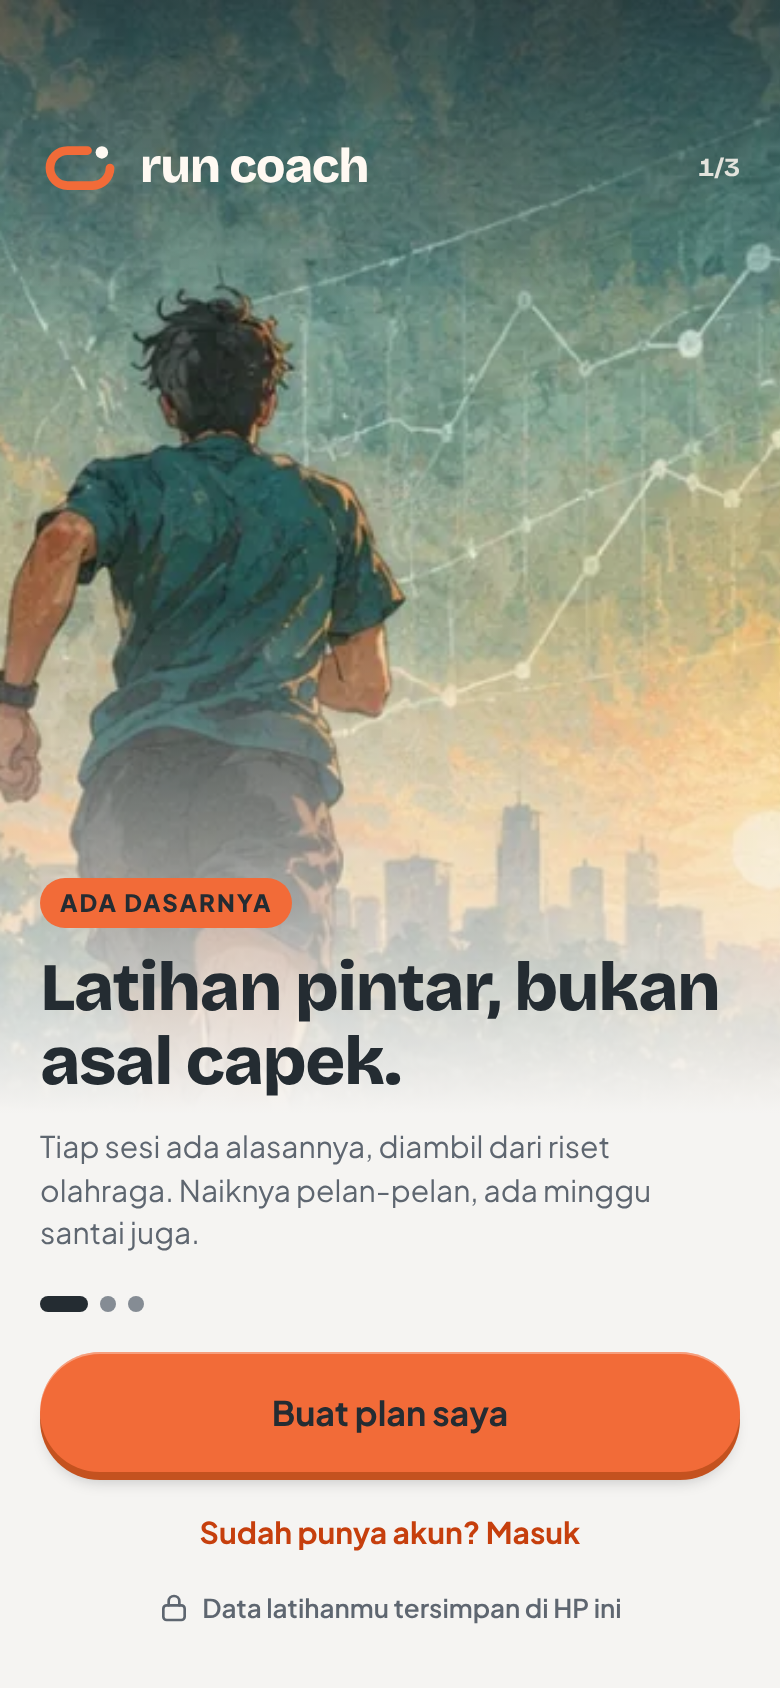
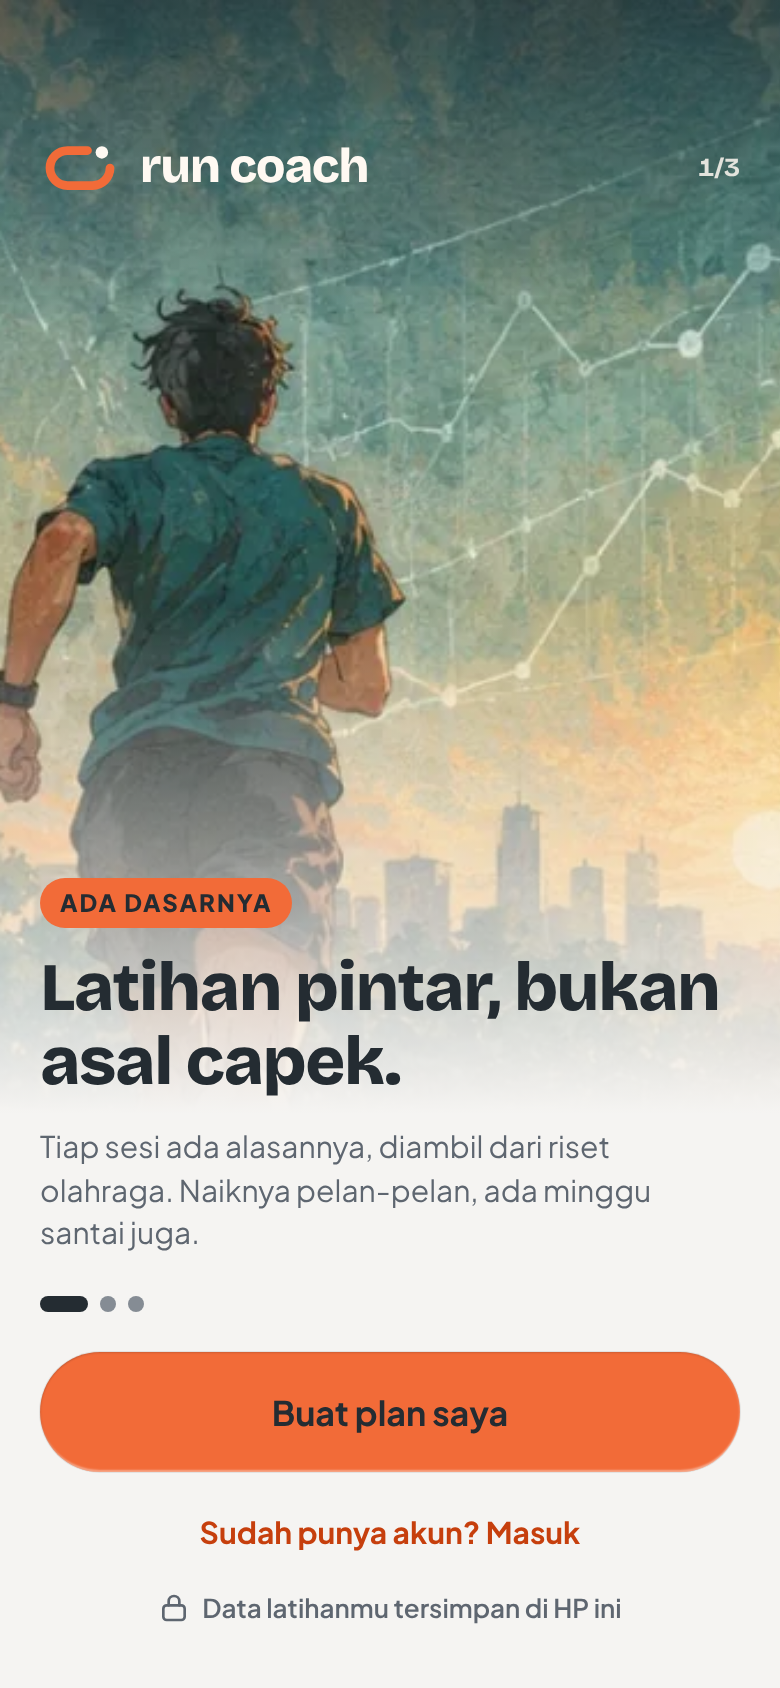
feat(ui): tombol kaca (isi rata, tepi kaca, datar saat ditekan)
PrimaryButton: tanpa bayangan keluar dan tanpa gradasi; tepi atas/kiri
sedikit gelap, bawah/kanan sedikit terang (meniru referensi liquid glass).
SecondaryButton outline: latar surface-sunken (gelap: surface) dengan tepi
kaca terang. Ditekan: efek hilang, tidak bergeser. Token primary-edge
dihapus. Spec UI/UX 2 dan wireframe carousel diperbarui.

Claude-Session: https://claude.ai/code/session_0117N1BV5utnPpkrBuecfNkz

Changed region(s): [[0.0615, 0.8626, 0.9231, 0.8934], [0.9231, 0.8318, 0.9538, 0.8626]]

diff --git a/packages/ui/src/components/Button.tsx b/packages/ui/src/components/Button.tsx
@@ -1,5 +1,5 @@
 import { ActivityIndicator, Pressable, StyleSheet, View, type PressableProps } from 'react-native';
-import { border, color, radius, ring, size, space, themed, isDark } from '../theme';
+import { border, color, radius, size, space, themed, isDark } from '../theme';
 import { Icon, type IconName } from './Icon';
 import { Text } from './Text';
 
@@ -10,25 +10,42 @@ type Base = Omit<PressableProps, 'children' | 'style'> & {
   testID?: string;
 };
 
-/** Tebal sisi bawah tombol (UI/UX 3, v0.9) dan sisa saat ditekan. */
-const EDGE = space[1];
-const EDGE_PRESSED = border.hairline;
-
-/** Sisi gelap tombol varian `dark`: hitam pekat di terang, krem redup di gelap. */
-const edgeDark = () => (isDark() ? color.lineStrong : color.scrim);
-
 /**
- * Tombol bertebal (bukan kertas melayang): sisi bawah padat warna lebih gelap + bayangan lembut
- * pendek + kilau tipis di tepi atas. Ditekan: tombol turun dan sisinya menipis, seperti tombol fisik.
+ * Tepi kaca (UI/UX 3, v0.9, meniru referensi ala liquid glass): isi rata tanpa gradasi dan tanpa
+ * bayangan keluar. Cahaya seolah tembus dari bawah: tepi atas/kiri sedikit gelap, tepi bawah/kanan
+ * sedikit terang, dengan tepi lembut. Ditekan: semua efek hilang, tombol datar sejajar layar.
  */
-function depth(edge: string, pressed: boolean) {
-  const e = pressed ? EDGE_PRESSED : EDGE;
+const H = border.hairline;
+const HL = border.control;
+const inset = (x: number, y: number, c: string) => `inset ${x}px ${y}px ${H}px -${H / 2}px ${c}`;
+
+function glassPrimary(pressed: boolean) {
+  if (pressed) return { boxShadow: 'none' };
+  const dark = color.scrim;
+  const light = color.palette.white;
   return {
-    transform: [{ translateY: EDGE - e }],
     boxShadow: [
-      `0px ${e}px 0px 0px ${edge}`,
-      `0px ${e + space[1]}px ${space[2]}px -${space[1]}px ${color.scrim}40`,
-      `inset 0px ${border.hairline}px 0px 0px ${color.palette.white}59`,
+      inset(0, H, `${dark}26`),
+      inset(H, 0, `${dark}1A`),
+      inset(0, -HL, `${light}66`),
+      inset(-H, 0, `${light}33`),
+      `0px 0px 0px ${H / 2}px ${dark}14`,
+    ].join(', '),
+  };
+}
+
+function glassSecondary(pressed: boolean) {
+  if (pressed) return { boxShadow: 'none' };
+  const dark = isDark();
+  const rim = dark ? color.palette.cream : color.palette.white;
+  const a = dark ? ['40', '26', '33', '1A'] : ['F2', 'B3', 'CC', '80'];
+  return {
+    boxShadow: [
+      inset(0, -HL, `${rim}${a[0]}`),
+      inset(-HL, 0, `${rim}${a[1]}`),
+      inset(0, H, `${rim}${a[2]}`),
+      inset(H, 0, `${rim}${a[3]}`),
+      `0px 0px 0px ${H / 2}px ${dark ? `${color.scrim}66` : `${color.text}1F`}`,
     ].join(', '),
   };
 }
@@ -54,7 +71,7 @@ export function PrimaryButton({
       style={({ pressed }) => [
         styles.primary,
         { backgroundColor: bg, opacity: off ? 0.4 : 1 },
-        depth(variant === 'primary' ? color.primaryEdge : edgeDark(), pressed && !off),
+        glassPrimary(pressed && !off),
       ]}
     >
       {loading ? (
@@ -89,8 +106,8 @@ export function SecondaryButton({
       style={({ pressed }) => [
         styles.secondary,
         tall && styles.tall,
-        variant === 'outline' ? styles.outline : null,
-        { opacity: disabled ? 0.4 : pressed ? 0.7 : 1 },
+        variant === 'outline' ? [styles.outline, glassSecondary(pressed && !disabled)] : null,
+        { opacity: disabled ? 0.4 : variant === 'outline' ? 1 : pressed ? 0.7 : 1 },
       ]}
     >
       <View style={styles.row}>
@@ -150,7 +167,8 @@ const styles = themed(() =>
       paddingHorizontal: space[5],
     },
     tall: { minHeight: size.input },
-    outline: { ...ring(border.control, color.lineStrong), backgroundColor: color.surface },
+    // Sekunder kaca: abu rata (gelap: surface) + tepi kaca dari glassSecondary.
+    outline: { backgroundColor: isDark() ? color.surface : color.surfaceSunken },
     link: {
       minHeight: size.touchMin,
       alignItems: 'center',

diff --git a/docs/wireframes/source/IMG-1-9-masuk.dc.html b/docs/wireframes/source/IMG-1-9-masuk.dc.html
@@ -17,7 +17,7 @@ a{color:var(--primary-ink)}
 button{font-family:inherit}
 
 /* USULAN TOKEN (draft imagery), belum di tokens.json */
-:root{--on-image:#FFF9F2;--scrim-top:linear-gradient(180deg,#161B1F99 0%,#161B1F00 100%);--scrim-bottom:linear-gradient(180deg,#161B1F00 0%,#161B1FB3 100%);--primary-edge:#C4521F;--button-depth:0 4px 0 0 var(--primary-edge),0 8px 8px -4px #161B1F40,inset 0 1px 0 0 #FFFFFF59}
+:root{--on-image:#FFF9F2;--scrim-top:linear-gradient(180deg,#161B1F99 0%,#161B1F00 100%);--scrim-bottom:linear-gradient(180deg,#161B1F00 0%,#161B1FB3 100%);--primary-edge:#C4521F;--button-depth:inset 0 1px 1px -0.5px #161B1F26,inset 1px 0 1px -0.5px #161B1F1A,inset 0 -1.5px 1px -0.5px #FFFFFF66,inset -1px 0 1px -0.5px #FFFFFF33,0 0 0 0.5px #161B1F14}
 </style>
 </helmet>
 <div style="position: relative; width: 390px; height: 844px; box-sizing: border-box; display: flex; flex-direction: column; background: var(--bg); color: var(--text); font-family: var(--font-ui); font-feature-settings: 'tnum' 1; overflow: hidden"><div aria-hidden="true" style="position: absolute; top: 0; left: 0; right: 0; height: 330px; z-index: 0"><img src="ds/lintas/imagery/riverside-city-f.webp" alt="" style="width: 100%; height: 100%; object-fit: cover; object-position: 74% 52%; display: block"><div style="position: absolute; inset: 0 0 auto 0; height: 120px; background: var(--scrim-top)"></div><div style="position: absolute; inset: 0; background: linear-gradient(180deg, transparent 45%, var(--bg) 100%)"></div></div>

diff --git a/docs/wireframes/source/IMG-4-4-premium.dc.html b/docs/wireframes/source/IMG-4-4-premium.dc.html
@@ -16,7 +16,7 @@ a{color:var(--primary-ink)}
 button{font-family:inherit}
 
 /* USULAN TOKEN (draft imagery), belum di tokens.json */
-:root{--on-image:#FFF9F2;--scrim-top:linear-gradient(180deg,#161B1F99 0%,#161B1F00 100%);--scrim-bottom:linear-gradient(180deg,#161B1F00 0%,#161B1FB3 100%);--primary-edge:#C4521F;--button-depth:0 4px 0 0 var(--primary-edge),0 8px 8px -4px #161B1F40,inset 0 1px 0 0 #FFFFFF59}
+:root{--on-image:#FFF9F2;--scrim-top:linear-gradient(180deg,#161B1F99 0%,#161B1F00 100%);--scrim-bottom:linear-gradient(180deg,#161B1F00 0%,#161B1FB3 100%);--primary-edge:#C4521F;--button-depth:inset 0 1px 1px -0.5px #161B1F26,inset 1px 0 1px -0.5px #161B1F1A,inset 0 -1.5px 1px -0.5px #FFFFFF66,inset -1px 0 1px -0.5px #FFFFFF33,0 0 0 0.5px #161B1F14}
 </style>
 </helmet>
 <div style="position: relative; width: 390px; height: 844px; box-sizing: border-box; display: flex; flex-direction: column; background: var(--bg); color: var(--text); font-family: var(--font-ui); font-feature-settings: 'tnum' 1; overflow: hidden"><div aria-hidden="true" style="position: absolute; top: 0; left: 0; right: 0; height: 300px; z-index: 0"><img src="ds/lintas/imagery/riverside-city-m.webp" alt="" style="width: 100%; height: 100%; object-fit: cover; object-position: 80% 46%; display: block"><div style="position: absolute; inset: 0 0 auto 0; height: 120px; background: var(--scrim-top)"></div><div style="position: absolute; inset: 0; background: linear-gradient(180deg, transparent 45%, var(--bg) 100%)"></div></div>

diff --git a/docs/wireframes/source/IMG-1-1-selamat-datang.dc.html b/docs/wireframes/source/IMG-1-1-selamat-datang.dc.html
@@ -17,7 +17,7 @@ a{color:var(--primary-ink)}
 button{font-family:inherit}
 
 /* USULAN TOKEN (draft imagery), belum di tokens.json */
-:root{--on-image:#FFF9F2;--scrim-top:linear-gradient(180deg,#161B1F99 0%,#161B1F00 100%);--scrim-bottom:linear-gradient(180deg,#161B1F00 0%,#161B1FB3 100%);--primary-edge:#C4521F;--button-depth:0 4px 0 0 var(--primary-edge),0 8px 8px -4px #161B1F40,inset 0 1px 0 0 #FFFFFF59}
+:root{--on-image:#FFF9F2;--scrim-top:linear-gradient(180deg,#161B1F99 0%,#161B1F00 100%);--scrim-bottom:linear-gradient(180deg,#161B1F00 0%,#161B1FB3 100%);--primary-edge:#C4521F;--button-depth:inset 0 1px 1px -0.5px #161B1F26,inset 1px 0 1px -0.5px #161B1F1A,inset 0 -1.5px 1px -0.5px #FFFFFF66,inset -1px 0 1px -0.5px #FFFFFF33,0 0 0 0.5px #161B1F14}
 </style>
 </helmet>
 <div style="position: relative; width: 390px; height: 844px; box-sizing: border-box; display: flex; flex-direction: column; background: var(--bg); color: var(--text); font-family: var(--font-ui); font-feature-settings: 'tnum' 1; overflow: hidden"><div aria-hidden="true" style="position: absolute; top: 0; left: 0; right: 0; height: 520px; z-index: 0"><img src="ds/lintas/imagery/road-sunrise-m.webp" alt="" style="width: 100%; height: 100%; object-fit: cover; object-position: 62% 38%; display: block"><div style="position: absolute; inset: 0 0 auto 0; height: 120px; background: var(--scrim-top)"></div><div style="position: absolute; inset: 0; background: linear-gradient(180deg, transparent 45%, var(--bg) 100%)"></div></div>

diff --git a/docs/wireframes/source/IMG-1-1b-selamat-datang.dc.html b/docs/wireframes/source/IMG-1-1b-selamat-datang.dc.html
@@ -17,7 +17,7 @@ a{color:var(--primary-ink)}
 button{font-family:inherit}
 
 /* USULAN TOKEN (draft imagery), belum di tokens.json */
-:root{--on-image:#FFF9F2;--scrim-top:linear-gradient(180deg,#161B1F99 0%,#161B1F00 100%);--scrim-bottom:linear-gradient(180deg,#161B1F00 0%,#161B1FB3 100%);--primary-edge:#C4521F;--button-depth:0 4px 0 0 var(--primary-edge),0 8px 8px -4px #161B1F40,inset 0 1px 0 0 #FFFFFF59}
+:root{--on-image:#FFF9F2;--scrim-top:linear-gradient(180deg,#161B1F99 0%,#161B1F00 100%);--scrim-bottom:linear-gradient(180deg,#161B1F00 0%,#161B1FB3 100%);--primary-edge:#C4521F;--button-depth:inset 0 1px 1px -0.5px #161B1F26,inset 1px 0 1px -0.5px #161B1F1A,inset 0 -1.5px 1px -0.5px #FFFFFF66,inset -1px 0 1px -0.5px #FFFFFF33,0 0 0 0.5px #161B1F14}
 </style>
 </helmet>
 <div style="position: relative; width: 390px; height: 844px; box-sizing: border-box; display: flex; flex-direction: column; background: var(--bg); color: var(--text); font-family: var(--font-ui); font-feature-settings: 'tnum' 1; overflow: hidden"><div aria-hidden="true" style="position: absolute; top: 0; left: 0; right: 0; height: 520px; z-index: 0"><img src="ds/lintas/imagery/road-sunrise-f.webp" alt="" style="width: 100%; height: 100%; object-fit: cover; object-position: 74% 45%; display: block"><div style="position: absolute; inset: 0 0 auto 0; height: 120px; background: var(--scrim-top)"></div><div style="position: absolute; inset: 0; background: linear-gradient(180deg, transparent 45%, var(--bg) 100%)"></div></div>

diff --git a/docs/wireframes/source/IMG-2-5-ringkasan-minggu.dc.html b/docs/wireframes/source/IMG-2-5-ringkasan-minggu.dc.html
@@ -17,7 +17,7 @@ a{color:var(--primary-ink)}
 button{font-family:inherit}
 
 /* USULAN TOKEN (draft imagery), belum di tokens.json */
-:root{--on-image:#FFF9F2;--scrim-top:linear-gradient(180deg,#161B1F99 0%,#161B1F00 100%);--scrim-bottom:linear-gradient(180deg,#161B1F00 0%,#161B1FB3 100%);--primary-edge:#C4521F;--button-depth:0 4px 0 0 var(--primary-edge),0 8px 8px -4px #161B1F40,inset 0 1px 0 0 #FFFFFF59}
+:root{--on-image:#FFF9F2;--scrim-top:linear-gradient(180deg,#161B1F99 0%,#161B1F00 100%);--scrim-bottom:linear-gradient(180deg,#161B1F00 0%,#161B1FB3 100%);--primary-edge:#C4521F;--button-depth:inset 0 1px 1px -0.5px #161B1F26,inset 1px 0 1px -0.5px #161B1F1A,inset 0 -1.5px 1px -0.5px #FFFFFF66,inset -1px 0 1px -0.5px #FFFFFF33,0 0 0 0.5px #161B1F14}
 </style>
 </helmet>
 <div style="position: relative; width: 390px; height: 844px; box-sizing: border-box; display: flex; flex-direction: column; background: var(--bg); color: var(--text); font-family: var(--font-ui); font-feature-settings: 'tnum' 1; overflow: hidden"><div aria-hidden="true" style="position: absolute; top: 0; left: 0; right: 0; height: 300px; z-index: 0"><img src="ds/lintas/imagery/track-overhead.webp" alt="" style="width: 100%; height: 100%; object-fit: cover; object-position: 50% 40%; display: block"><div style="position: absolute; inset: 0 0 auto 0; height: 120px; background: var(--scrim-top)"></div><div style="position: absolute; inset: 0; background: linear-gradient(180deg, transparent 45%, var(--bg) 100%)"></div></div>

diff --git a/docs/wireframes/source/IMG-2-4-selesai.dc.html b/docs/wireframes/source/IMG-2-4-selesai.dc.html
@@ -17,7 +17,7 @@ a{color:var(--primary-ink)}
 button{font-family:inherit}
 
 /* USULAN TOKEN (draft imagery), belum di tokens.json */
-:root{--on-image:#FFF9F2;--scrim-top:linear-gradient(180deg,#161B1F99 0%,#161B1F00 100%);--scrim-bottom:linear-gradient(180deg,#161B1F00 0%,#161B1FB3 100%);--primary-edge:#C4521F;--button-depth:0 4px 0 0 var(--primary-edge),0 8px 8px -4px #161B1F40,inset 0 1px 0 0 #FFFFFF59}
+:root{--on-image:#FFF9F2;--scrim-top:linear-gradient(180deg,#161B1F99 0%,#161B1F00 100%);--scrim-bottom:linear-gradient(180deg,#161B1F00 0%,#161B1FB3 100%);--primary-edge:#C4521F;--button-depth:inset 0 1px 1px -0.5px #161B1F26,inset 1px 0 1px -0.5px #161B1F1A,inset 0 -1.5px 1px -0.5px #FFFFFF66,inset -1px 0 1px -0.5px #FFFFFF33,0 0 0 0.5px #161B1F14}
 </style>
 </helmet>
 <div style="position: relative; width: 390px; height: 844px; box-sizing: border-box; display: flex; flex-direction: column; background: var(--bg); color: var(--text); font-family: var(--font-ui); font-feature-settings: 'tnum' 1; overflow: hidden"><div aria-hidden="true" style="position: absolute; top: 0; left: 0; right: 0; height: 320px; z-index: 0"><img src="ds/lintas/imagery/shoe-sole.webp" alt="" style="width: 100%; height: 100%; object-fit: cover; object-position: 58% 30%; display: block"><div style="position: absolute; inset: 0 0 auto 0; height: 120px; background: var(--scrim-top)"></div><div style="position: absolute; inset: 0; background: linear-gradient(180deg, transparent 40%, var(--bg) 100%)"></div></div>

diff --git a/docs/wireframes/source/IMG-2-6-catat-lari.dc.html b/docs/wireframes/source/IMG-2-6-catat-lari.dc.html
@@ -17,7 +17,7 @@ a{color:var(--primary-ink)}
 button{font-family:inherit}
 
 /* USULAN TOKEN (draft imagery), belum di tokens.json */
-:root{--on-image:#FFF9F2;--scrim-top:linear-gradient(180deg,#161B1F99 0%,#161B1F00 100%);--scrim-bottom:linear-gradient(180deg,#161B1F00 0%,#161B1FB3 100%);--primary-edge:#C4521F;--button-depth:0 4px 0 0 var(--primary-edge),0 8px 8px -4px #161B1F40,inset 0 1px 0 0 #FFFFFF59}
+:root{--on-image:#FFF9F2;--scrim-top:linear-gradient(180deg,#161B1F99 0%,#161B1F00 100%);--scrim-bottom:linear-gradient(180deg,#161B1F00 0%,#161B1FB3 100%);--primary-edge:#C4521F;--button-depth:inset 0 1px 1px -0.5px #161B1F26,inset 1px 0 1px -0.5px #161B1F1A,inset 0 -1.5px 1px -0.5px #FFFFFF66,inset -1px 0 1px -0.5px #FFFFFF33,0 0 0 0.5px #161B1F14}
 </style>
 </helmet>
 <div style="position: relative; width: 390px; height: 844px; box-sizing: border-box; display: flex; flex-direction: column; background: var(--bg); color: var(--text); font-family: var(--font-ui); font-feature-settings: 'tnum' 1; overflow: hidden"><div aria-hidden="true" style="position: absolute; top: 0; left: 0; right: 0; height: 300px; z-index: 0"><img src="ds/lintas/imagery/pov-feet.webp" alt="" style="width: 100%; height: 100%; object-fit: cover; object-position: 55% 55%; display: block"><div style="position: absolute; inset: 0 0 auto 0; height: 120px; background: var(--scrim-top)"></div><div style="position: absolute; inset: 0; background: linear-gradient(180deg, transparent 45%, var(--bg) 100%)"></div></div>

diff --git a/docs/wireframes/source/IMG-1-1c1-carousel.dc.html b/docs/wireframes/source/IMG-1-1c1-carousel.dc.html
@@ -17,7 +17,7 @@ a{color:var(--primary-ink)}
 button{font-family:inherit}
 
 /* USULAN TOKEN (draft imagery), belum di tokens.json */
-:root{--on-image:#FFF9F2;--scrim-top:linear-gradient(180deg,#161B1F99 0%,#161B1F00 100%);--scrim-bottom:linear-gradient(180deg,#161B1F00 0%,#161B1FB3 100%);--primary-edge:#C4521F;--button-depth:0 4px 0 0 var(--primary-edge),0 8px 8px -4px #161B1F40,inset 0 1px 0 0 #FFFFFF59}
+:root{--on-image:#FFF9F2;--scrim-top:linear-gradient(180deg,#161B1F99 0%,#161B1F00 100%);--scrim-bottom:linear-gradient(180deg,#161B1F00 0%,#161B1FB3 100%);--primary-edge:#C4521F;--button-depth:inset 0 1px 1px -0.5px #161B1F26,inset 1px 0 1px -0.5px #161B1F1A,inset 0 -1.5px 1px -0.5px #FFFFFF66,inset -1px 0 1px -0.5px #FFFFFF33,0 0 0 0.5px #161B1F14}
 </style>
 </helmet>
 <div style="position: relative; width: 390px; height: 844px; box-sizing: border-box; display: flex; flex-direction: column; background: var(--bg); color: var(--text); font-family: var(--font-ui); font-feature-settings: 'tnum' 1; overflow: hidden">

diff --git a/docs/wireframes/source/IMG-1-1c2-carousel.dc.html b/docs/wireframes/source/IMG-1-1c2-carousel.dc.html
@@ -17,7 +17,7 @@ a{color:var(--primary-ink)}
 button{font-family:inherit}
 
 /* USULAN TOKEN (draft imagery), belum di tokens.json */
-:root{--on-image:#FFF9F2;--scrim-top:linear-gradient(180deg,#161B1F99 0%,#161B1F00 100%);--scrim-bottom:linear-gradient(180deg,#161B1F00 0%,#161B1FB3 100%);--primary-edge:#C4521F;--button-depth:0 4px 0 0 var(--primary-edge),0 8px 8px -4px #161B1F40,inset 0 1px 0 0 #FFFFFF59}
+:root{--on-image:#FFF9F2;--scrim-top:linear-gradient(180deg,#161B1F99 0%,#161B1F00 100%);--scrim-bottom:linear-gradient(180deg,#161B1F00 0%,#161B1FB3 100%);--primary-edge:#C4521F;--button-depth:inset 0 1px 1px -0.5px #161B1F26,inset 1px 0 1px -0.5px #161B1F1A,inset 0 -1.5px 1px -0.5px #FFFFFF66,inset -1px 0 1px -0.5px #FFFFFF33,0 0 0 0.5px #161B1F14}
 </style>
 </helmet>
 <div style="position: relative; width: 390px; height: 844px; box-sizing: border-box; display: flex; flex-direction: column; background: var(--bg); color: var(--text); font-family: var(--font-ui); font-feature-settings: 'tnum' 1; overflow: hidden">

diff --git a/docs/wireframes/source/IMG-1-1c3-carousel.dc.html b/docs/wireframes/source/IMG-1-1c3-carousel.dc.html
@@ -17,7 +17,7 @@ a{color:var(--primary-ink)}
 button{font-family:inherit}
 
 /* USULAN TOKEN (draft imagery), belum di tokens.json */
-:root{--on-image:#FFF9F2;--scrim-top:linear-gradient(180deg,#161B1F99 0%,#161B1F00 100%);--scrim-bottom:linear-gradient(180deg,#161B1F00 0%,#161B1FB3 100%);--primary-edge:#C4521F;--button-depth:0 4px 0 0 var(--primary-edge),0 8px 8px -4px #161B1F40,inset 0 1px 0 0 #FFFFFF59}
+:root{--on-image:#FFF9F2;--scrim-top:linear-gradient(180deg,#161B1F99 0%,#161B1F00 100%);--scrim-bottom:linear-gradient(180deg,#161B1F00 0%,#161B1FB3 100%);--primary-edge:#C4521F;--button-depth:inset 0 1px 1px -0.5px #161B1F26,inset 1px 0 1px -0.5px #161B1F1A,inset 0 -1.5px 1px -0.5px #FFFFFF66,inset -1px 0 1px -0.5px #FFFFFF33,0 0 0 0.5px #161B1F14}
 </style>
 </helmet>
 <div style="position: relative; width: 390px; height: 844px; box-sizing: border-box; display: flex; flex-direction: column; background: var(--bg); color: var(--text); font-family: var(--font-ui); font-feature-settings: 'tnum' 1; overflow: hidden">

diff --git a/docs/wireframes/source/IMG-2-1-hari-ini.dc.html b/docs/wireframes/source/IMG-2-1-hari-ini.dc.html
@@ -17,7 +17,7 @@ a{color:var(--primary-ink)}
 button{font-family:inherit}
 
 /* USULAN TOKEN (draft imagery), belum di tokens.json */
-:root{--on-image:#FFF9F2;--scrim-top:linear-gradient(180deg,#161B1F99 0%,#161B1F00 100%);--scrim-bottom:linear-gradient(180deg,#161B1F00 0%,#161B1FB3 100%);--primary-edge:#C4521F;--button-depth:0 4px 0 0 var(--primary-edge),0 8px 8px -4px #161B1F40,inset 0 1px 0 0 #FFFFFF59}
+:root{--on-image:#FFF9F2;--scrim-top:linear-gradient(180deg,#161B1F99 0%,#161B1F00 100%);--scrim-bottom:linear-gradient(180deg,#161B1F00 0%,#161B1FB3 100%);--primary-edge:#C4521F;--button-depth:inset 0 1px 1px -0.5px #161B1F26,inset 1px 0 1px -0.5px #161B1F1A,inset 0 -1.5px 1px -0.5px #FFFFFF66,inset -1px 0 1px -0.5px #FFFFFF33,0 0 0 0.5px #161B1F14}
 </style>
 </helmet>
 <div style="position: relative; width: 390px; height: 844px; box-sizing: border-box; display: flex; flex-direction: column; background: var(--bg); color: var(--text); font-family: var(--font-ui); font-feature-settings: 'tnum' 1; overflow: hidden">
